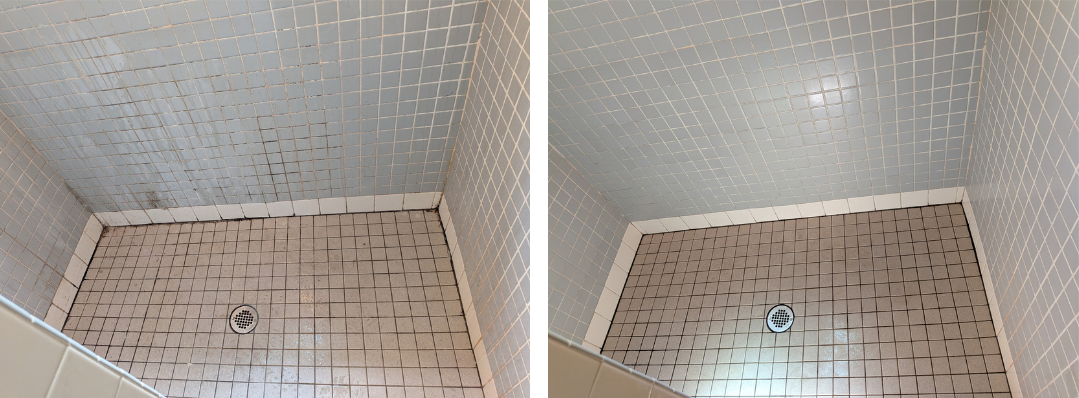
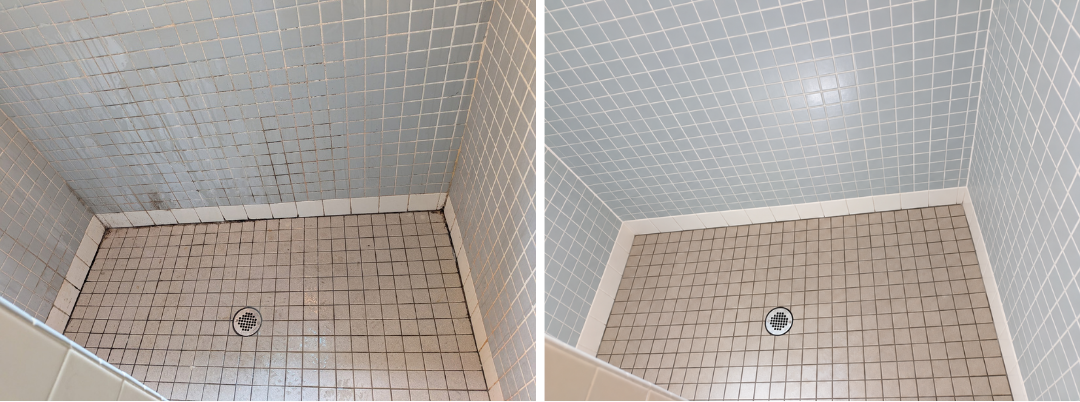
wizard scroll UX

diff --git a/src/components/residential/CleaningLeadForm.tsx b/src/components/residential/CleaningLeadForm.tsx
@@ -6,6 +6,7 @@ import {
   useMemo,
   useRef,
   useState,
+  type FocusEvent,
   type FormEvent,
   type ReactNode,
 } from "react";
@@ -132,7 +133,27 @@ export default function CleaningLeadForm({
   const canAttemptSubmit = useMemo(() => !isSubmitting, [isSubmitting]);
 
   function scrollWizardBelowHeader() {
+    // Mobile/tablet only — desktop scroll on step change feels jumpy.
+    if (window.matchMedia("(min-width: 1280px)").matches) return;
     scrollElementBelowHeader(formCardRef.current);
+  }
+
+  function handleWizardFocusIn(e: FocusEvent<HTMLFormElement>) {
+    const target = e.target;
+    if (!(target instanceof HTMLElement)) return;
+    if (!target.matches("input, select, textarea")) return;
+
+    const form = formCardRef.current;
+    if (!form) return;
+
+    // Only the active step's fields are mounted, so the first control is
+    // the first input on this card.
+    const firstField = form.querySelector<HTMLElement>(
+      'input:not([type="hidden"]), select, textarea',
+    );
+    if (target !== firstField) return;
+
+    scrollWizardBelowHeader();
   }
 
   function update<K extends keyof CleaningLeadFormState>(
@@ -401,6 +422,7 @@ export default function CleaningLeadForm({
       ref={formCardRef}
       data-lead-wizard={isQuote ? "quote" : "booking"}
       onSubmit={onSubmit}
+      onFocus={handleWizardFocusIn}
       className="rounded-3xl border border-stone-200 bg-white p-6 shadow-sm sm:p-8"
       noValidate
     >

diff --git a/src/data/beforeAfterPhotos.ts b/src/data/beforeAfterPhotos.ts
@@ -5,6 +5,11 @@ export const BEFORE_AFTER_PHOTOS = [
     alt: "Before and after: dated bathroom with grimy fixtures transformed into a bright, clean space with sparkling white tub, sink, and toilet",
   },
   {
+    id: "shower",
+    title: "Shower tiles",
+    alt: "Before and after: shower corner with stained grout and soap scum restored to bright blue wall tiles, clean tan floor tiles, and white grout",
+  },
+  {
     id: "floors",
     title: "Hardwood floors",
     alt: "Before and after: dull hardwood floors restored to a polished, reflective shine",
@@ -18,11 +23,6 @@ export const BEFORE_AFTER_PHOTOS = [
     id: "stove",
     title: "Glass cooktop",
     alt: "Before and after: burnt-on residue on a glass stovetop removed for a clear, polished surface",
-  },
-  {
-    id: "shower",
-    title: "Shower tiles",
-    alt: "Before and after: shower with soap scum, mildew, and stained grout cleaned to bright, sparkling tiles",
   },
   {
     id: "worst oven",
